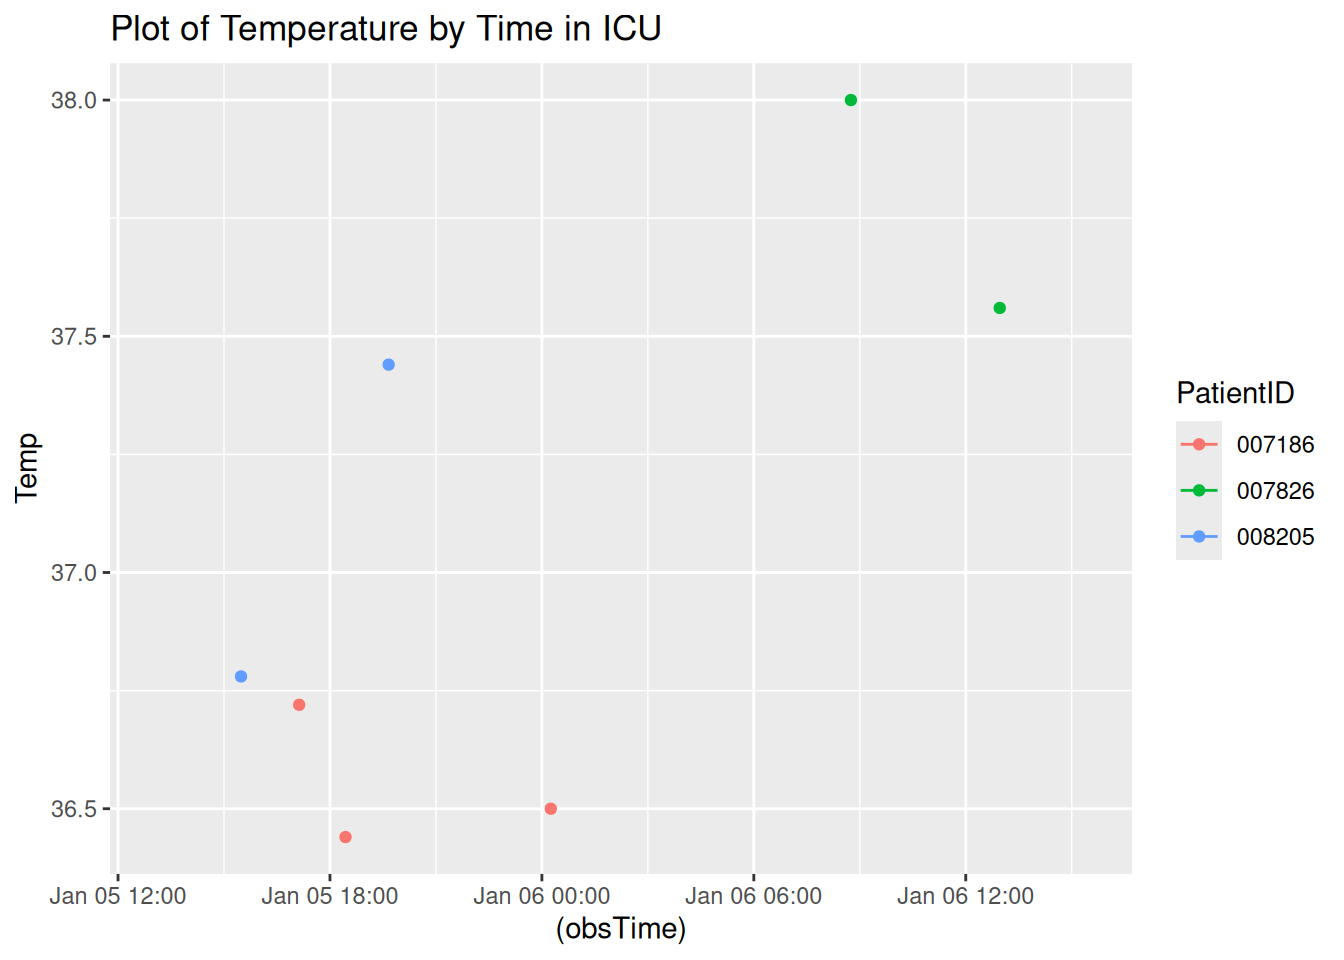
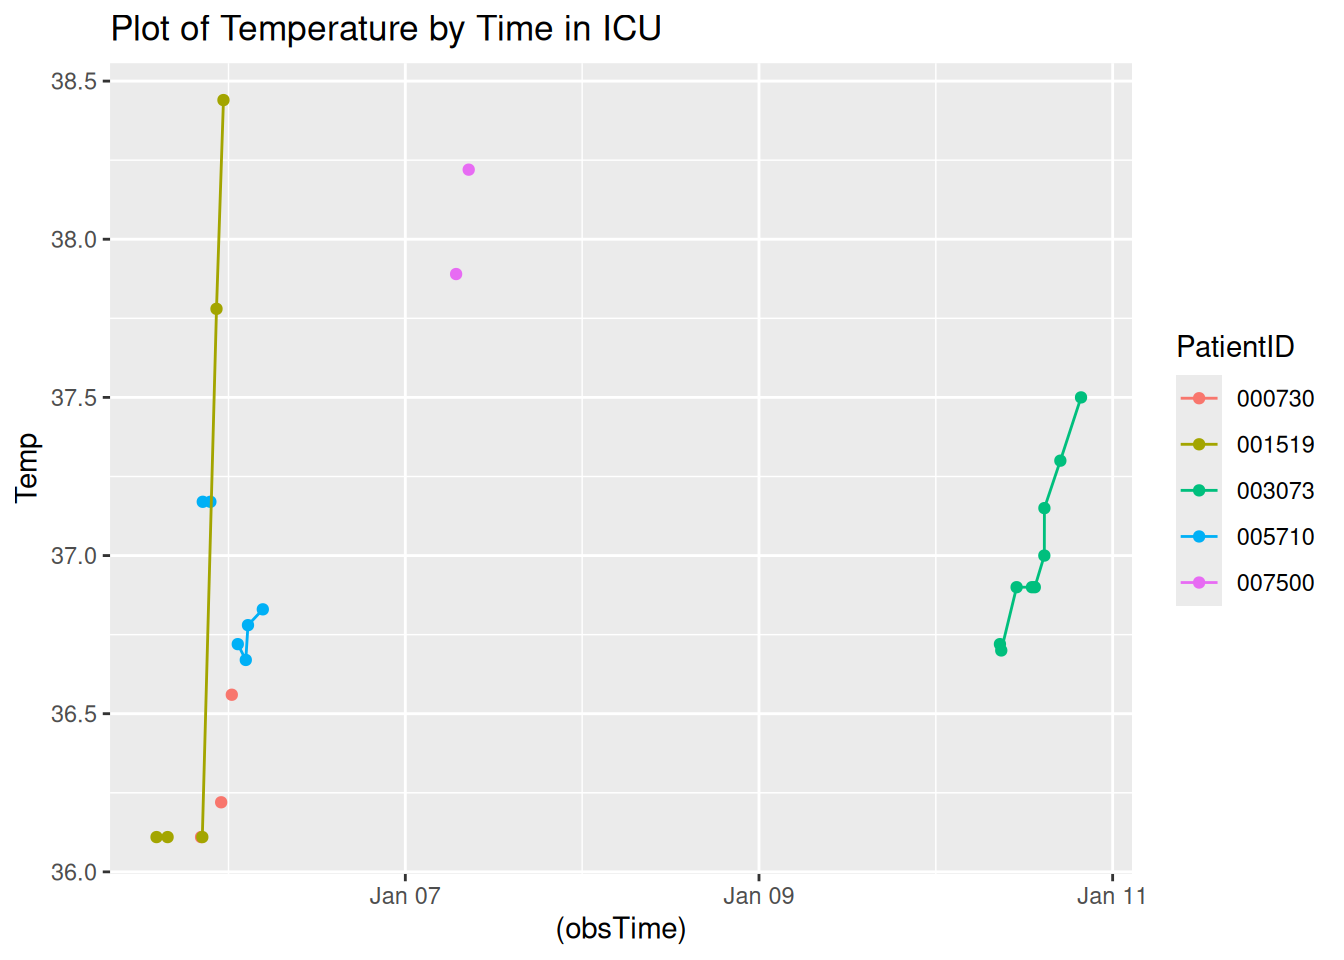
Updated report

diff --git a/A7.html b/A7.html
@@ -119,7 +119,7 @@ pre > code.sourceCode > span > a:first-child::before { text-decoration: underlin
 </div>
 <div class="code-copy-outer-scaffold"><div class="sourceCode cell-code" id="cb4"><pre class="sourceCode r code-with-copy"><code class="sourceCode r"><span id="cb4-1"><a href="#cb4-1" aria-hidden="true" tabindex="-1"></a><span class="fu">toc</span>()</span></code></pre></div><button title="Copy to Clipboard" class="code-copy-button"><i class="bi"></i></button></div>
 <div class="cell-output cell-output-stdout">
-<pre><code>21.708 sec elapsed</code></pre>
+<pre><code>14.348 sec elapsed</code></pre>
 </div>
 <div class="code-copy-outer-scaffold"><div class="sourceCode cell-code" id="cb6"><pre class="sourceCode r code-with-copy"><code class="sourceCode r"><span id="cb6-1"><a href="#cb6-1" aria-hidden="true" tabindex="-1"></a><span class="fu">tic</span>()</span>
 <span id="cb6-2"><a href="#cb6-2" aria-hidden="true" tabindex="-1"></a>test1<span class="ot">=</span><span class="fu">makeSepsisDataset</span>(<span class="at">n=</span><span class="dv">50</span>,<span class="at">read_fn =</span> <span class="st">"read_delim"</span>)</span>
@@ -129,7 +129,7 @@ pre > code.sourceCode > span > a:first-child::before { text-decoration: underlin
 </div>
 <div class="code-copy-outer-scaffold"><div class="sourceCode cell-code" id="cb8"><pre class="sourceCode r code-with-copy"><code class="sourceCode r"><span id="cb8-1"><a href="#cb8-1" aria-hidden="true" tabindex="-1"></a><span class="fu">toc</span>()</span></code></pre></div><button title="Copy to Clipboard" class="code-copy-button"><i class="bi"></i></button></div>
 <div class="cell-output cell-output-stdout">
-<pre><code>23.655 sec elapsed</code></pre>
+<pre><code>11.761 sec elapsed</code></pre>
 </div>
 <div class="code-copy-outer-scaffold"><div class="sourceCode cell-code" id="cb10"><pre class="sourceCode r code-with-copy"><code class="sourceCode r"><span id="cb10-1"><a href="#cb10-1" aria-hidden="true" tabindex="-1"></a><span class="co"># n=100</span></span>
 <span id="cb10-2"><a href="#cb10-2" aria-hidden="true" tabindex="-1"></a><span class="fu">tic</span>()</span>
@@ -140,7 +140,7 @@ pre > code.sourceCode > span > a:first-child::before { text-decoration: underlin
 </div>
 <div class="code-copy-outer-scaffold"><div class="sourceCode cell-code" id="cb12"><pre class="sourceCode r code-with-copy"><code class="sourceCode r"><span id="cb12-1"><a href="#cb12-1" aria-hidden="true" tabindex="-1"></a><span class="fu">toc</span>()</span></code></pre></div><button title="Copy to Clipboard" class="code-copy-button"><i class="bi"></i></button></div>
 <div class="cell-output cell-output-stdout">
-<pre><code>38.96 sec elapsed</code></pre>
+<pre><code>19.652 sec elapsed</code></pre>
 </div>
 <div class="code-copy-outer-scaffold"><div class="sourceCode cell-code" id="cb14"><pre class="sourceCode r code-with-copy"><code class="sourceCode r"><span id="cb14-1"><a href="#cb14-1" aria-hidden="true" tabindex="-1"></a><span class="fu">tic</span>()</span>
 <span id="cb14-2"><a href="#cb14-2" aria-hidden="true" tabindex="-1"></a>test1<span class="ot">=</span><span class="fu">makeSepsisDataset</span>(<span class="at">n=</span><span class="dv">100</span>,<span class="at">read_fn =</span> <span class="st">"read_delim"</span>)</span>
@@ -150,7 +150,7 @@ pre > code.sourceCode > span > a:first-child::before { text-decoration: underlin
 </div>
 <div class="code-copy-outer-scaffold"><div class="sourceCode cell-code" id="cb16"><pre class="sourceCode r code-with-copy"><code class="sourceCode r"><span id="cb16-1"><a href="#cb16-1" aria-hidden="true" tabindex="-1"></a><span class="fu">toc</span>()</span></code></pre></div><button title="Copy to Clipboard" class="code-copy-button"><i class="bi"></i></button></div>
 <div class="cell-output cell-output-stdout">
-<pre><code>39.481 sec elapsed</code></pre>
+<pre><code>22.702 sec elapsed</code></pre>
 </div>
 <div class="code-copy-outer-scaffold"><div class="sourceCode cell-code" id="cb18"><pre class="sourceCode r code-with-copy"><code class="sourceCode r"><span id="cb18-1"><a href="#cb18-1" aria-hidden="true" tabindex="-1"></a><span class="co"># n=500</span></span>
 <span id="cb18-2"><a href="#cb18-2" aria-hidden="true" tabindex="-1"></a><span class="fu">tic</span>()</span>
@@ -161,7 +161,7 @@ pre > code.sourceCode > span > a:first-child::before { text-decoration: underlin
 </div>
 <div class="code-copy-outer-scaffold"><div class="sourceCode cell-code" id="cb20"><pre class="sourceCode r code-with-copy"><code class="sourceCode r"><span id="cb20-1"><a href="#cb20-1" aria-hidden="true" tabindex="-1"></a><span class="fu">toc</span>()</span></code></pre></div><button title="Copy to Clipboard" class="code-copy-button"><i class="bi"></i></button></div>
 <div class="cell-output cell-output-stdout">
-<pre><code>192.591 sec elapsed</code></pre>
+<pre><code>100.723 sec elapsed</code></pre>
 </div>
 <div class="code-copy-outer-scaffold"><div class="sourceCode cell-code" id="cb22"><pre class="sourceCode r code-with-copy"><code class="sourceCode r"><span id="cb22-1"><a href="#cb22-1" aria-hidden="true" tabindex="-1"></a><span class="fu">tic</span>()</span>
 <span id="cb22-2"><a href="#cb22-2" aria-hidden="true" tabindex="-1"></a>test1<span class="ot">=</span><span class="fu">makeSepsisDataset</span>(<span class="at">n=</span><span class="dv">500</span>,<span class="at">read_fn =</span> <span class="st">"read_delim"</span>)</span>
@@ -171,7 +171,7 @@ pre > code.sourceCode > span > a:first-child::before { text-decoration: underlin
 </div>
 <div class="code-copy-outer-scaffold"><div class="sourceCode cell-code" id="cb24"><pre class="sourceCode r code-with-copy"><code class="sourceCode r"><span id="cb24-1"><a href="#cb24-1" aria-hidden="true" tabindex="-1"></a><span class="fu">toc</span>()</span></code></pre></div><button title="Copy to Clipboard" class="code-copy-button"><i class="bi"></i></button></div>
 <div class="cell-output cell-output-stdout">
-<pre><code>183.307 sec elapsed</code></pre>
+<pre><code>114.015 sec elapsed</code></pre>
 </div>
 </div>
 <p><strong>Task 3</strong></p>
@@ -197,7 +197,7 @@ pre > code.sourceCode > span > a:first-child::before { text-decoration: underlin
 <span id="cb28-4"><a href="#cb28-4" aria-hidden="true" tabindex="-1"></a></span>
 <span id="cb28-5"><a href="#cb28-5" aria-hidden="true" tabindex="-1"></a><span class="fu">Sys.time</span>()</span></code></pre></div><button title="Copy to Clipboard" class="code-copy-button"><i class="bi"></i></button></div>
 <div class="cell-output cell-output-stdout">
-<pre><code>[1] "2026-01-05 13:05:25 UTC"</code></pre>
+<pre><code>[1] "2026-01-05 13:49:23 UTC"</code></pre>
 </div>
 <div class="code-copy-outer-scaffold"><div class="sourceCode cell-code" id="cb30"><pre class="sourceCode r code-with-copy"><code class="sourceCode r"><span id="cb30-1"><a href="#cb30-1" aria-hidden="true" tabindex="-1"></a>dfnew <span class="ot">&lt;-</span> df <span class="sc">%&gt;%</span></span>
 <span id="cb30-2"><a href="#cb30-2" aria-hidden="true" tabindex="-1"></a>  <span class="fu">subset</span>(SepsisLabel<span class="sc">==</span><span class="dv">1</span>)</span>
@@ -226,31 +226,49 @@ pre > code.sourceCode > span > a:first-child::before { text-decoration: underlin
 </thead>
 <tbody>
 <tr class="odd">
-<td style="text-align: left;">007186</td>
+<td style="text-align: left;">000730</td>
 <td style="text-align: right;">12</td>
-<td style="text-align: right;">91</td>
-<td style="text-align: right;">NA</td>
-<td style="text-align: right;">24</td>
+<td style="text-align: right;">74</td>
+<td style="text-align: right;">36.56</td>
+<td style="text-align: right;">14</td>
 <td style="text-align: right;">1</td>
-<td style="text-align: left;">2026-01-06 00:23:46</td>
+<td style="text-align: left;">2026-01-06 00:26:45</td>
 </tr>
 <tr class="even">
-<td style="text-align: left;">007826</td>
-<td style="text-align: right;">27</td>
-<td style="text-align: right;">89</td>
+<td style="text-align: left;">001519</td>
+<td style="text-align: right;">10</td>
+<td style="text-align: right;">97</td>
 <td style="text-align: right;">NA</td>
-<td style="text-align: right;">18</td>
+<td style="text-align: right;">16</td>
 <td style="text-align: right;">1</td>
-<td style="text-align: left;">2026-01-06 15:23:53</td>
+<td style="text-align: left;">2026-01-05 23:42:11</td>
 </tr>
 <tr class="odd">
-<td style="text-align: left;">008205</td>
-<td style="text-align: right;">7</td>
-<td style="text-align: right;">104</td>
-<td style="text-align: right;">37.44</td>
-<td style="text-align: right;">21</td>
+<td style="text-align: left;">003073</td>
+<td style="text-align: right;">127</td>
+<td style="text-align: right;">99</td>
+<td style="text-align: right;">NA</td>
+<td style="text-align: right;">16</td>
 <td style="text-align: right;">1</td>
-<td style="text-align: left;">2026-01-05 19:39:41</td>
+<td style="text-align: left;">2026-01-10 20:21:15</td>
+</tr>
+<tr class="even">
+<td style="text-align: left;">005710</td>
+<td style="text-align: right;">15</td>
+<td style="text-align: right;">90</td>
+<td style="text-align: right;">36.83</td>
+<td style="text-align: right;">20</td>
+<td style="text-align: right;">1</td>
+<td style="text-align: left;">2026-01-06 04:39:20</td>
+</tr>
+<tr class="odd">
+<td style="text-align: left;">007500</td>
+<td style="text-align: right;">45</td>
+<td style="text-align: right;">113</td>
+<td style="text-align: right;">NA</td>
+<td style="text-align: right;">20</td>
+<td style="text-align: right;">1</td>
+<td style="text-align: left;">2026-01-07 10:40:25</td>
 </tr>
 </tbody>
 </table>
